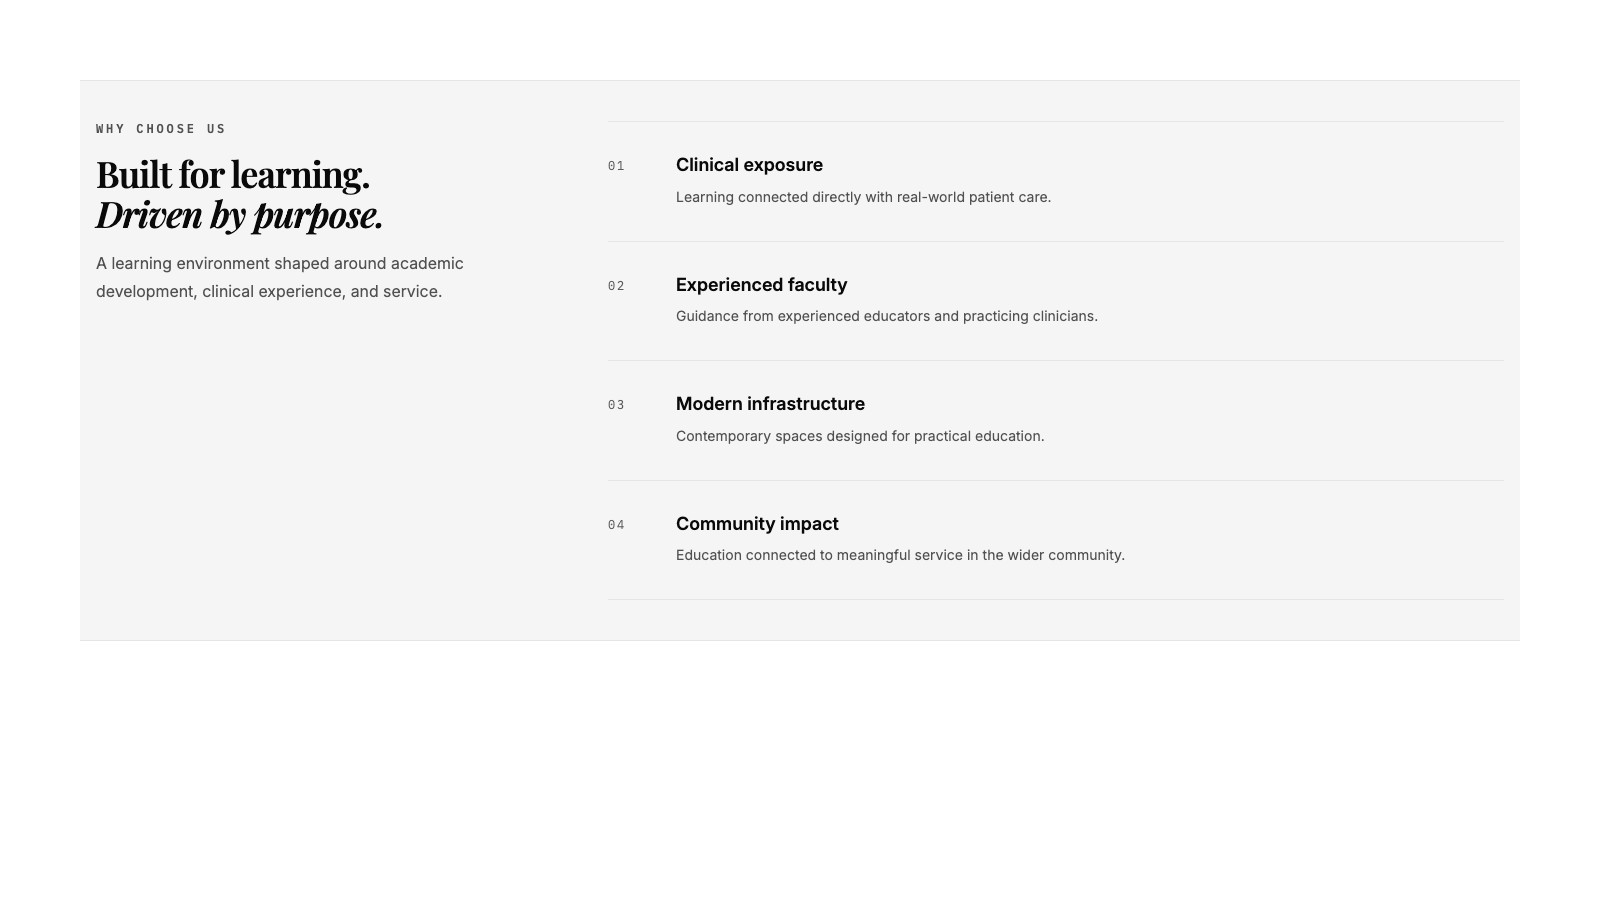
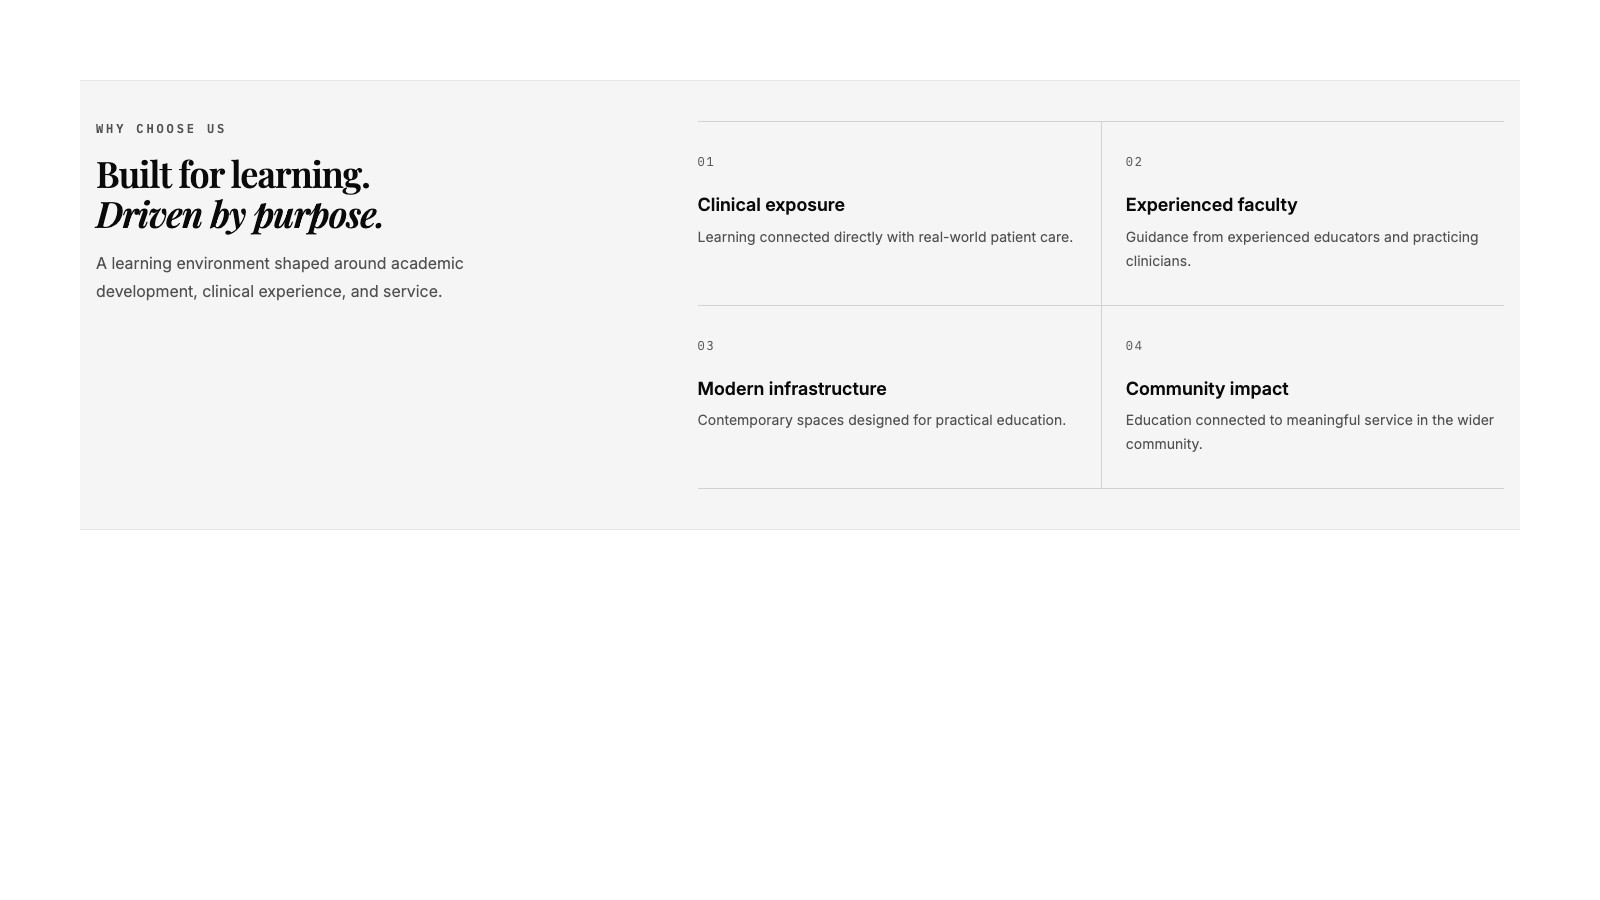
fix(editorial): restore default preview

diff --git a/src/block-thumbnails/fixtures.tsx b/src/block-thumbnails/fixtures.tsx
@@ -429,8 +429,6 @@ export const blockThumbnailFixtures = {
       appearance={{ background: 'muted', border: 'topAndBottom' }}
       description="A learning environment shaped around academic development, clinical experience, and service."
       eyebrow="Why choose us"
-      listBorderStyle="framed"
-      listColumns="1"
       reasons={[
         {
           description: 'Learning connected directly with real-world patient care.',
